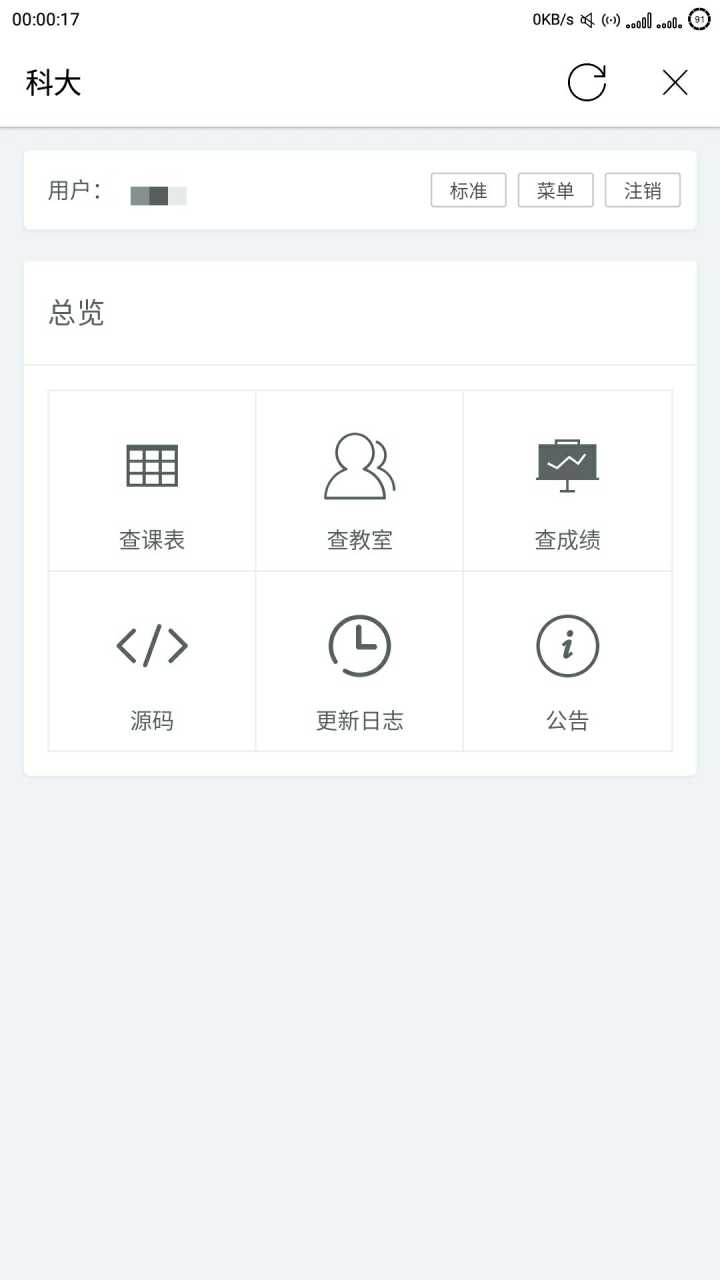
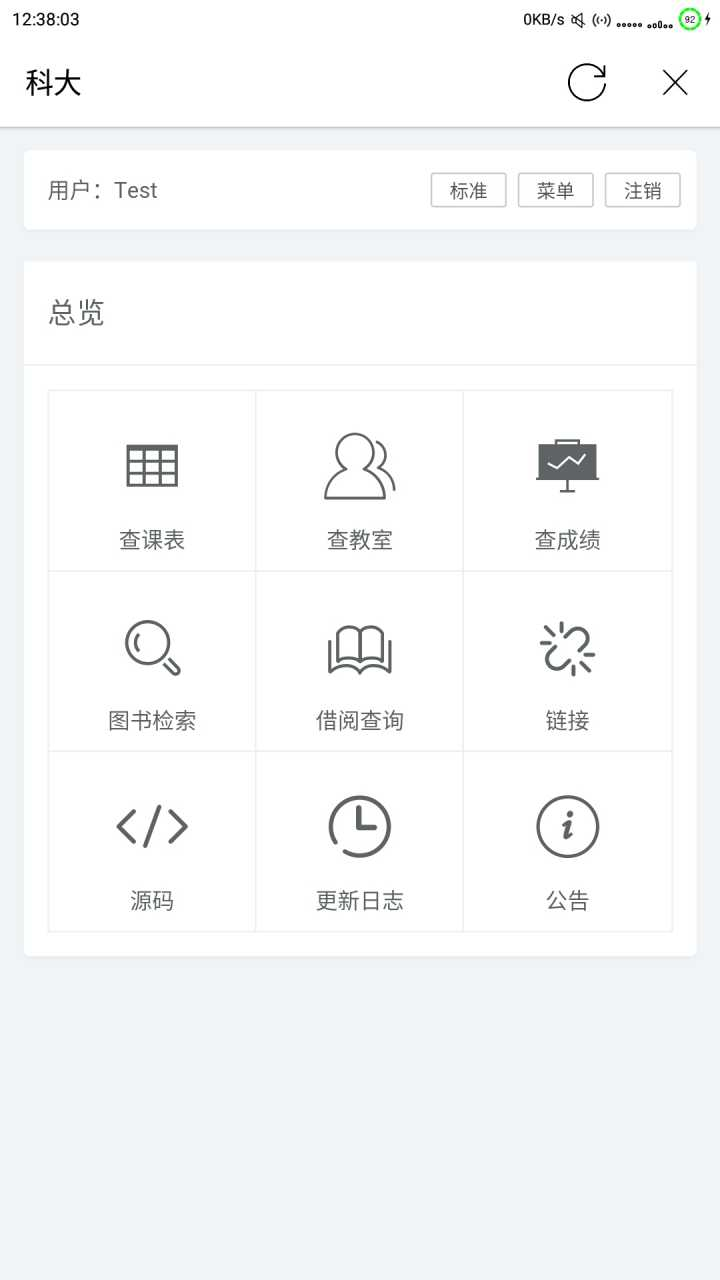
fix

diff --git a/README.md b/README.md
@@ -1,29 +1,16 @@
 # web
 ```
-SW/Web 目录下基于ThinkPHP制作的WEB项目，提供课表查询，空教室查询，成绩查询(实测智校园APP出问题无法进入时，本项目正常使用)  
+SW/Web 目录下基于ThinkPHP制作的WEB项目，提供课表查询，空教室查询，成绩查询，图书馆书籍检索，图书馆借阅查询，常用链接分享 
 ```
 更新日志：https://github.com/WindrunnerMax/SW/blob/master/ChangeLog.md
-```
-嵙同学部署到服务器即用，外校同学若使用需改动:
-SW/app/index/controller/Conf.php   
-中public static $url = "http://jwgl.sdust.edu.cn/app.do";  
-更改为public static $url = "${学校教务管理系统网站}/app.do";
-```
 
 ![show](https://raw.githubusercontent.com/WindrunnerMax/SW/master/Web/public/show1.jpg)
-![show](https://raw.githubusercontent.com/WindrunnerMax/SW/master/Web/public/show2.jpg)
 
 ----
   
 # python脚本
 ```
 SW/Python 目录下有python爬虫脚本，功能较全
-```
-```
-使用此脚本有以下几处需要作改动:  
-account = "" #账号  
-password = "" #密码  
-url = "http://jwgl.sdust.edu.cn/app.do" # ${学校教务管理系统网站}/app.do  
 ```
 
 **源码末尾取消注释即可获取函数返回的值，json.loads()即可得到json格式数据**  

diff --git a/ChangeLog.md b/ChangeLog.md
@@ -1,5 +1,23 @@
 ## Changelog
 
+```
+SDUST
+```
+
+### 1.3.3 (2019-5-3) [e3d83f2]
+1. 增加链接分享功能(其实是为了凑够九个功能格)
+
+### 1.3.2 (2019-5-1) [7b4b712]
+1. 整理代码结构
+2. 完善图书馆检索与借阅查询功能
+3. 学校图书馆对外网开放时间大约在 7:00 - 20:00 ，图书功能在此时间段正常使用
+
+### 1.3.1 (2019-4-30) [642c52f]
+1. 优化部分代码结构
+2. 建立SDUST分支(嵙分支，后期commit基本于此分支)
+3. 加入图书馆检索图书功能
+4. 加入借阅信息查询功能
+
 ### 1.2.2 (2019-4-28) [cc2f702]
 1. 优化代码结构，建立配置静态类
 
